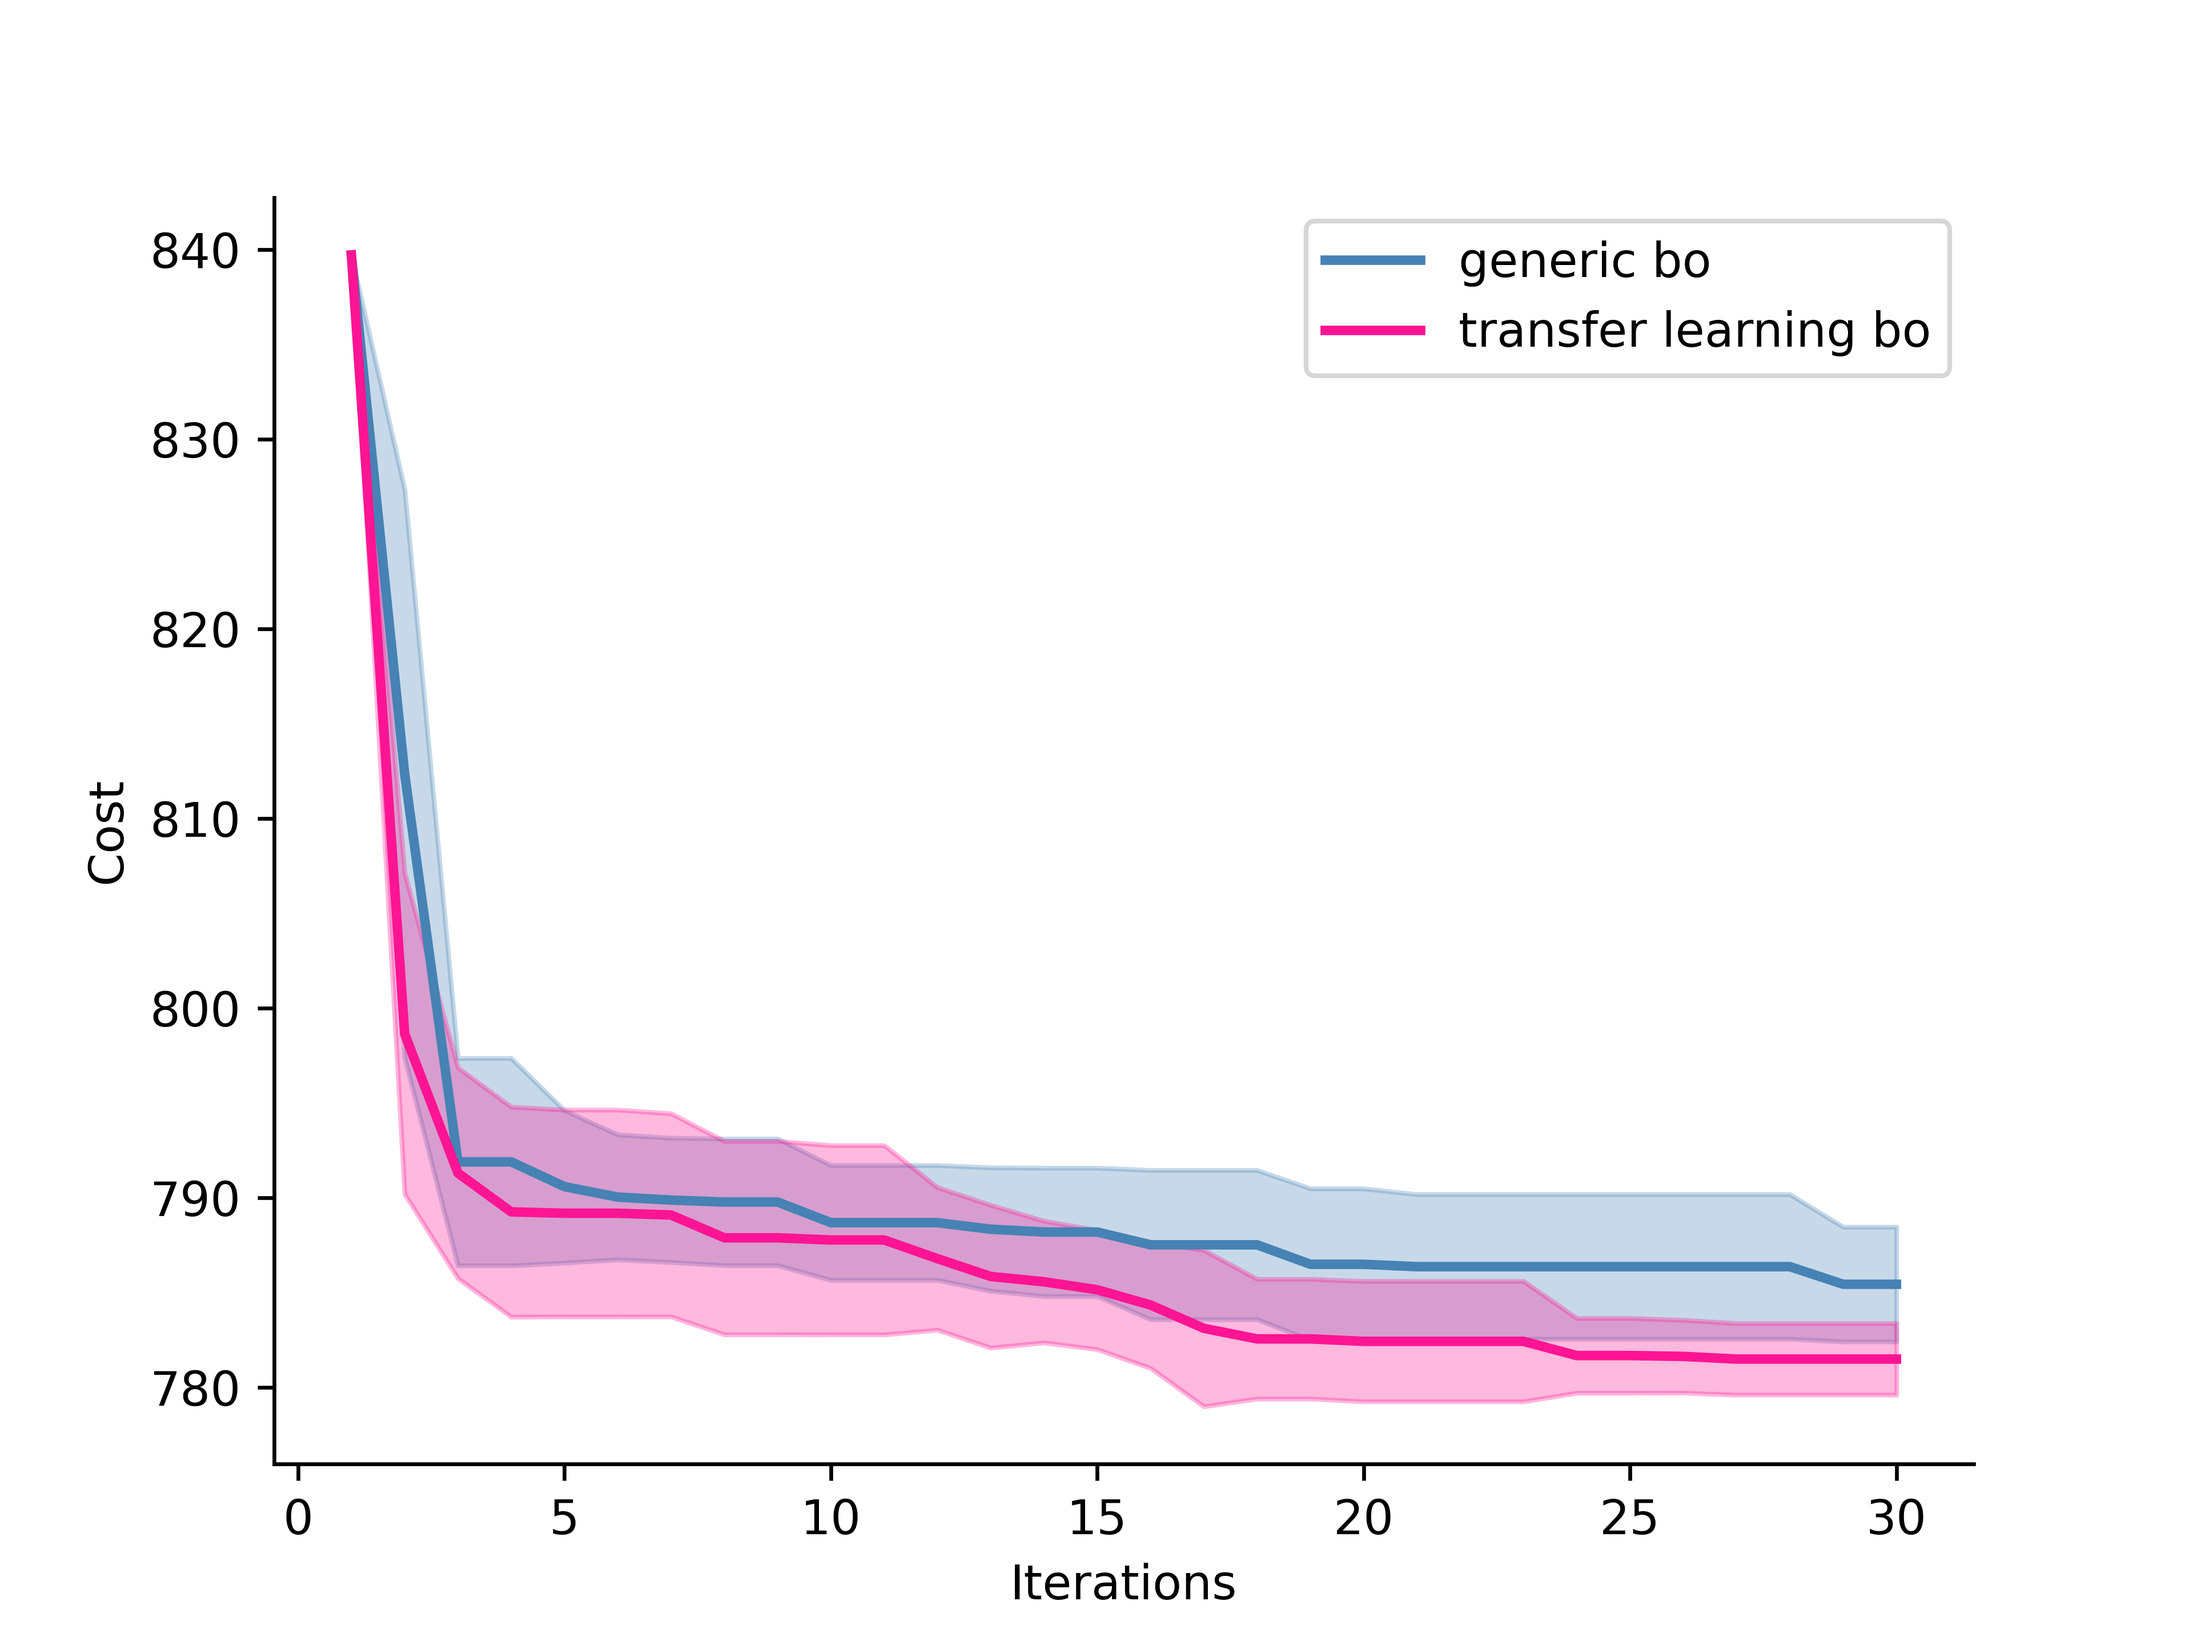
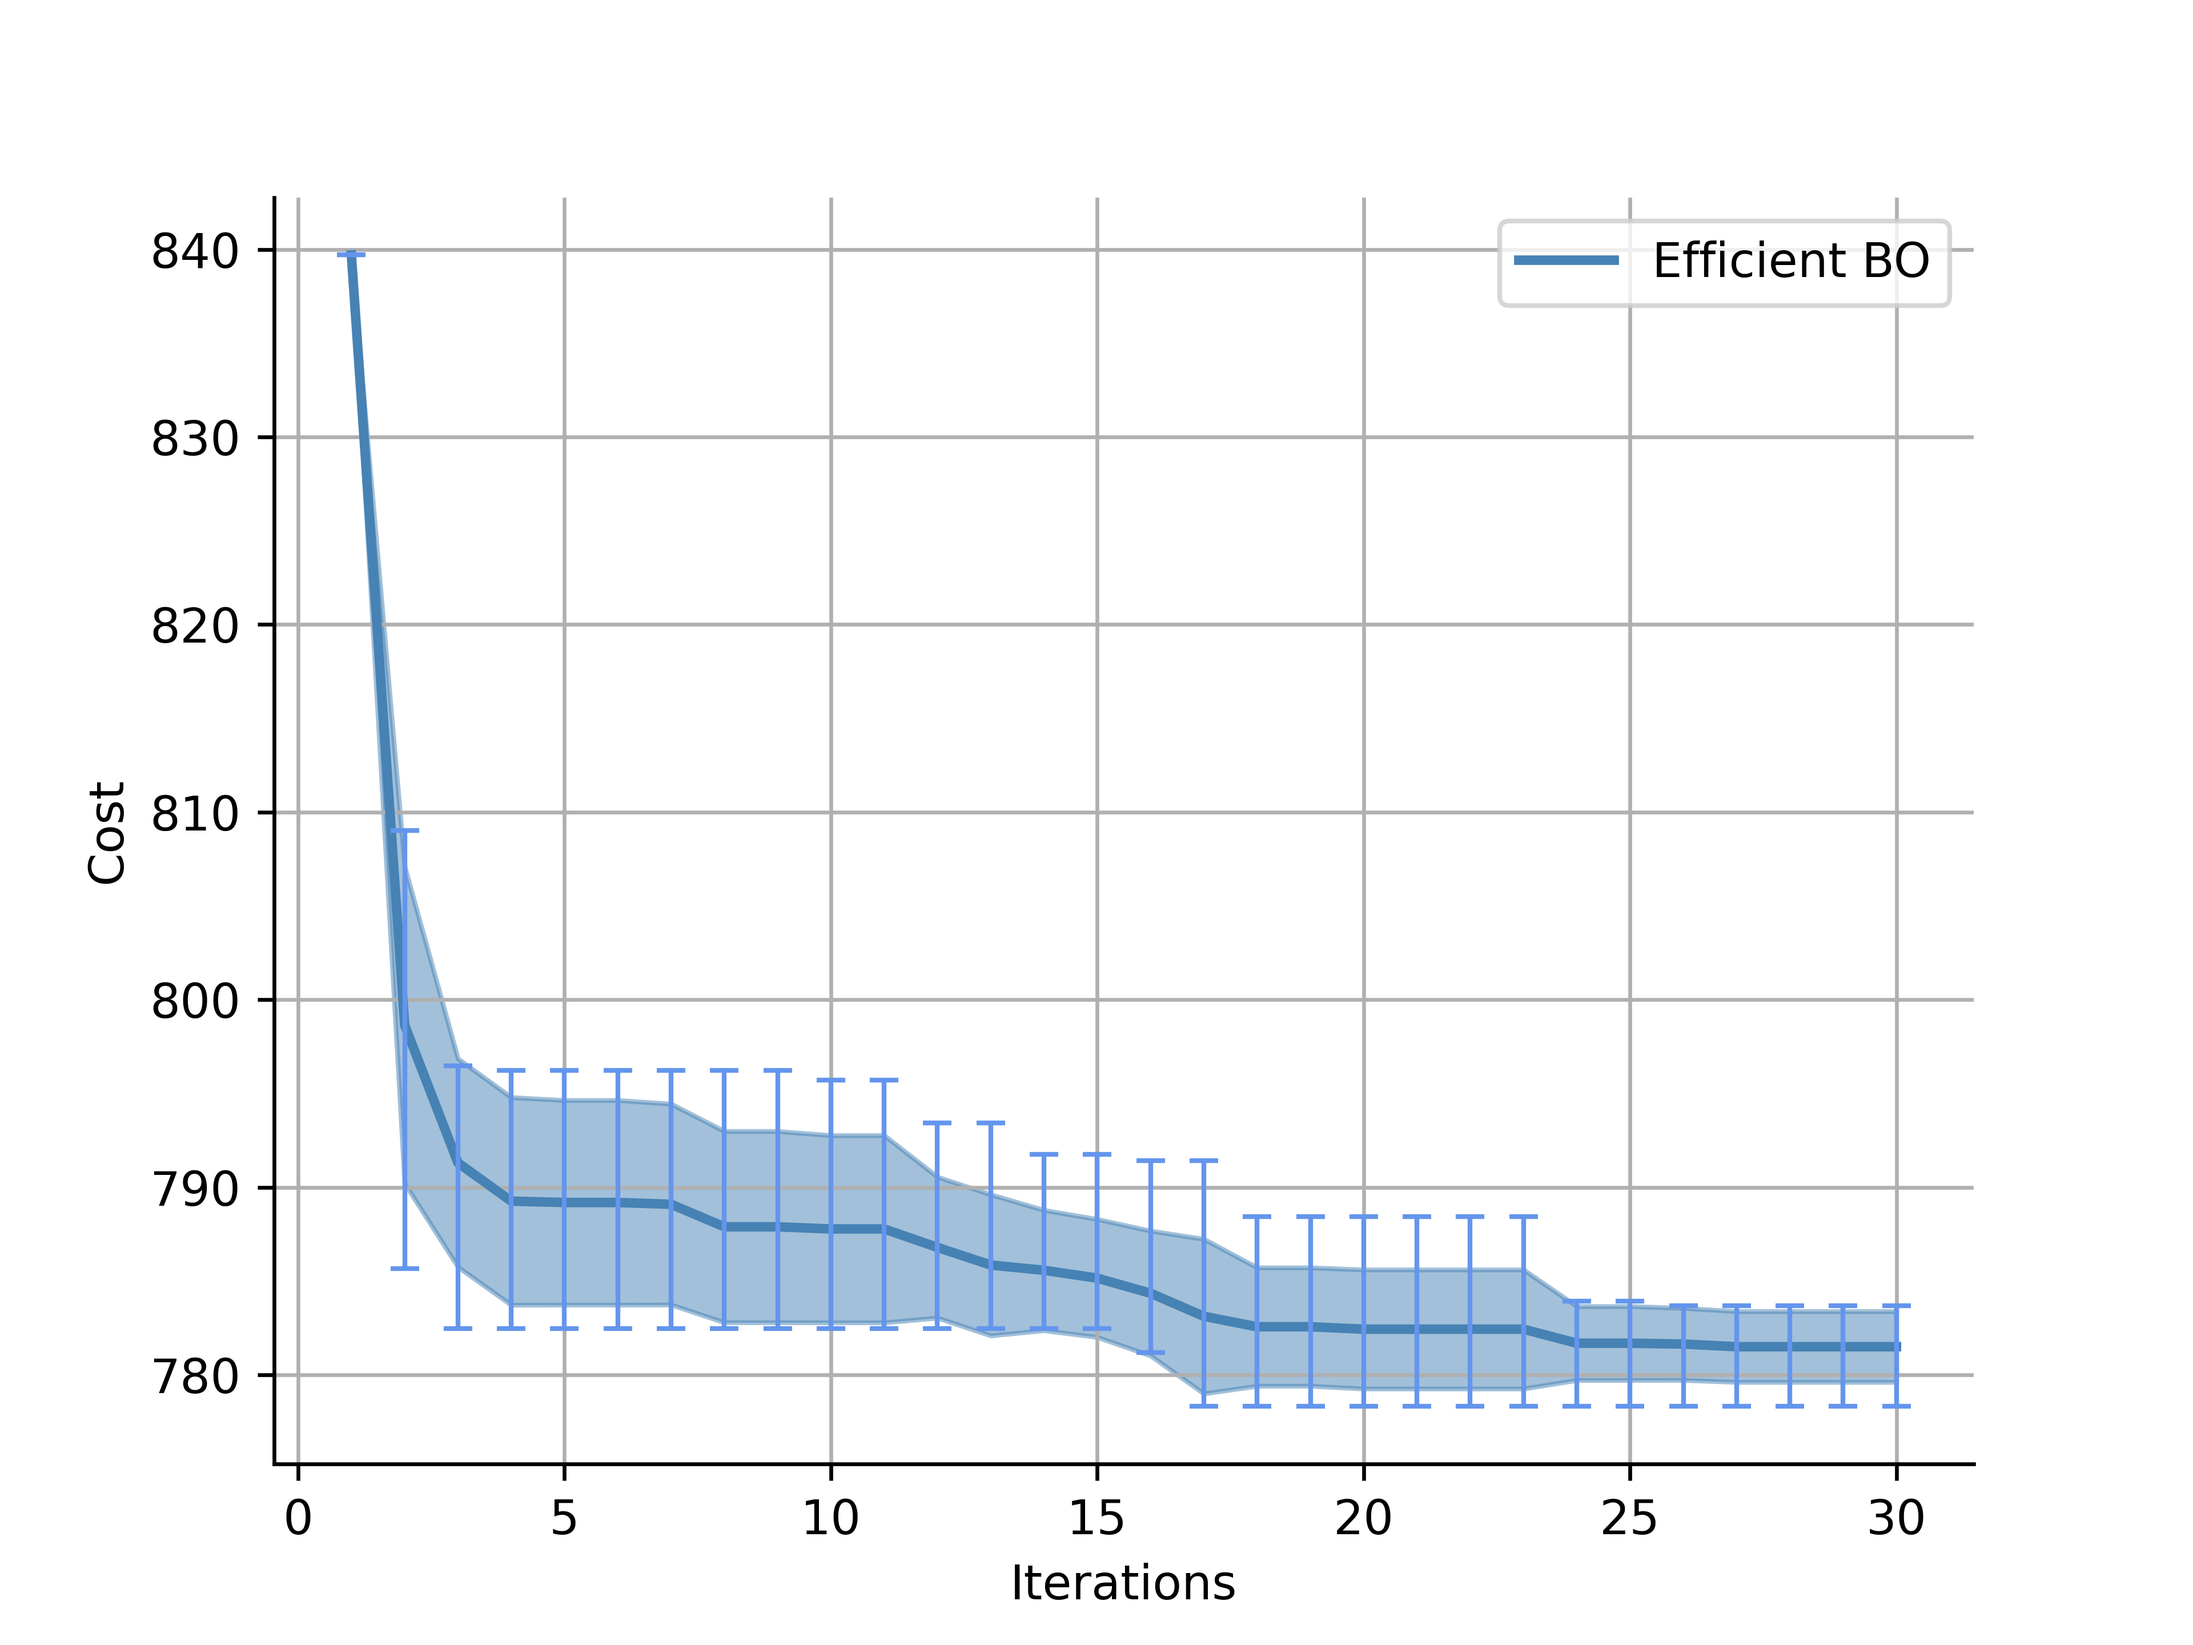
update

diff --git a/BO_LMPC/plot.py b/BO_LMPC/plot.py
@@ -55,15 +55,15 @@ for i in range(N):
                     all_best[0, :end] += current_best[:end] / N
                     bo_data[i - 1, :end] = current_best[:end]
                 elif name == 'robust_tvbo_{}.md'.format(idx):
-                    all[1, :] += lines[:end] / N
+                    all[1, :end] += lines[:end] / N
                     all_best[1, :] += current_best[:end] / N
                     tlbo_data[i - 1, :] = current_best[:end]
                 elif name == 'robust_tvbo_direct_{}.md'.format(idx):
-                    all[2, :] += lines[:end] / N
+                    all[2, :end] += lines[:end] / N
                     all_best[2, :] += current_best[:end] / N
                     direct_data[i - 1, :] = current_best[:end]
                 else:
-                    all[3, :] += lines[:end] / N
+                    all[3, :end] += lines[:end] / N
                     all_best[3, :] += current_best[:end] / N
                     unlim_data[i - 1, :] = current_best[:end]
 
@@ -75,27 +75,32 @@ bo_std = np.std(bo_data, axis=0)
 tlbo_std = np.std(tlbo_data, axis=0)
 direct_std = np.std(direct_data, axis=0)
 unlim_std = np.std(unlim_data, axis=0)
+
+tlbo_max = np.max(tlbo_data, axis=0).reshape(1, -1)
+tlbo_min = np.min(tlbo_data, axis=0).reshape(1, -1)
+tlbo_error = np.vstack((all_best[1]-tlbo_min, tlbo_max-all_best[1]))
 # plt.plot(all[0])
 # plt.plot(all[1])
 # plt.plot(all[2])
 # plt.show()
-colors = ['steelblue', 'deeppink']
+colors = ['steelblue', 'cornflowerblue', 'green', 'sandybrown']
 x = np.linspace(1, 30, 30)
-plt.plot(x, all_best[0], label='Generic BO', lw=2, color=colors[0])
+# plt.plot(x, all_best[0], label='Generic BO', lw=2, color=colors[0])
 # plt.step(x, all_best[0], label='generic bo', lw=2, color='purple')
 # plt.errorbar(np.arange(all_best.shape[1]), all_best[0], bo_std, capsize=3)
-plt.fill_between(range(1, all_best.shape[0]+1), all_best[0]-bo_std, all_best[0]+bo_std, alpha=0.3, color=colors[0])
-plt.plot(x, all_best[1], label='Efficient BO', lw=2, color=colors[1])
+# plt.fill_between(range(1, all_best.shape[1]+1), all_best[0]-bo_std, all_best[0]+bo_std, alpha=0.3, color=colors[0])
+plt.plot(x, all_best[1], label='Efficient BO', lw=2, color=colors[0])
 # plt.step(x, all_best[1], label='transfer learning bo', lw=2, color='slateblue')
-# plt.errorbar(np.arange(all_best.shape[1]), all_best[1], bo_std, capsize=3)
-plt.fill_between(range(1, all_best.shape[1]+1), all_best[1]-tlbo_std, all_best[1]+tlbo_std, alpha=0.3, color=colors[1])
+plt.errorbar(np.arange(1, all_best.shape[1]+1), all_best[1], tlbo_error, fmt='none', elinewidth=1,
+             capsize=3, ecolor=colors[1])
+plt.fill_between(range(1, all_best.shape[1]+1), all_best[1]-tlbo_std, all_best[1]+tlbo_std, alpha=0.5, color=colors[0])
 # plt.plot(all_best[2], label='lmpc')
 
-plt.plot(x, all_best[2], label='BO', lw=2, colors=colors[2])
-plt.fill_between(range(1, all_best.shape[2]+1), all_best[2]-direct_std, all_best[2]+direct_std, alpha=0.3, colors=colors[2])
+# plt.plot(x, all_best[2], label='Unnormalized Efficient BO', lw=2, color=colors[2])
+# plt.fill_between(range(1, all_best.shape[1]+1), all_best[2]-direct_std, all_best[2]+direct_std, alpha=0.3, color=colors[2])
 
-plt.plot(x, all_best[3], label='Unbounded Efficient-BO', lw=2, colors=colors[3])
-plt.fill_between(range(1, all_best.shape[3]+1), all_best[2]-unlim_std)
+# plt.plot(x, all_best[3], label='Unbounded Efficient BO', lw=2, color=colors[3])
+# plt.fill_between(range(1, all_best.shape[1]+1), all_best[3]-unlim_std, all_best[3]+unlim_std, alpha=0.3, color=colors[3])
 # plt.plot(all_best[3], label='tvbo all')
 # plt.errorbar(np.arange(all_best.shape[1]), all_best[1], bo_std, capsize=3)
 # plt.fill_between(range(all_best.shape[1]), all_best[3]-tlbo_all_std, all_best[3]+tlbo_all_std, alpha=0.3)
@@ -108,5 +113,6 @@ ax = plt.gca()
 ax.spines['right'].set_color('none')
 ax.spines['top'].set_color('none')
 plt.legend()
+plt.grid()
 plt.savefig('./figs/cost.png', dpi=600)
 plt.show()

diff --git a/BO_LMPC/plot_traj.py b/BO_LMPC/plot_traj.py
@@ -1,7 +1,6 @@
 import matplotlib.pyplot as plt
 import numpy as np
-from scipy.spatial import ConvexHull
-from mrpi.polyhedron import polyhedron, plot_polygon_list
+
 xcl_tvbo = np.load('tvbo_3_xcl.npy')
 xcl_lmpc = np.load('own_xcl.npy')
 v_tvbo = np.load('./vertices/tvbo_2/vertices_49.npy', allow_pickle=True)
@@ -14,77 +13,6 @@ plt.ylabel('x[1]')
 plt.savefig('./figs/traj.png', dpi=600)
 plt.show()
 
-plt.plot(xcl_tvbo[:, 0], xcl_tvbo[:, 1], label='transfer learning bo')
-plt.scatter(xcl_tvbo[:, 0], xcl_tvbo[:, 1], s=10)
-plt.plot(xcl_lmpc[:, 0], xcl_lmpc[:, 1], label='lmpc')
-plt.scatter(xcl_lmpc[:, 0], xcl_lmpc[:, 1], s=10)
-for i in range(xcl_tvbo.shape[0]):
-    v_tb = v_tvbo[i]
-    ax = plt.gca()
-    hull = ConvexHull(v_tb)
-    v_tb = v_tb[hull.vertices, :]
-    v_tb = v_tb + xcl_tvbo[i]  # 整体偏移
-    patch = plt.Polygon(v_tb, color='blue', linestyle='solid', fill=False)
-    ax.add_patch(patch)
 
-for i in range(xcl_lmpc.shape[0]):
-    v_lm = v_lmpc[i]
-    ax = plt.gca()
-    hull = ConvexHull(v_lm)
-    v_lm = v_lm[hull.vertices, :]
-    v_lm = v_lm + xcl_lmpc[i]  # 整体偏移
-    patch = plt.Polygon(v_lm, color='orange', linestyle='solid', fill=False)
-    ax.add_patch(patch)
-plt.legend()
-plt.xlabel('x[0]')
-plt.ylabel('x[1]')
-plt.savefig('./figs/x_tube.png', dpi=600)
-plt.show()
-
-ucl_tvbo = np.load('tvbo_3_ucl_true.npy')
-uv_tvbo = np.load('./vertices/tvbo_3/Kxs_49.npy', allow_pickle=True)
-ucl_lmpc = np.load('own_ucl.npy')
-uv_lm = np.load('./vertices/own/Kxs_49.npy', allow_pickle=True)
-fig, ax = plt.subplots(1, 2, figsize=[13, 5])
-tb = []
-x_tb = np.linspace(1, ucl_tvbo.shape[0], ucl_tvbo.shape[0])
-for i in range(ucl_tvbo.shape[0]):
-    tb.append(np.max(uv_tvbo[i]))
-ax[0].errorbar(x_tb, ucl_tvbo, tb, fmt='o-', ecolor='blue', elinewidth=2, capsize=4, label='transfer learning bo')
-ax[0].set_title('transfer learning bo')
-ax[0].set_xlabel('Iteration')
-ax[0].set_ylabel('u')
-lm = []
-x_lm = np.linspace(1, ucl_lmpc.shape[0], ucl_lmpc.shape[0])
-for i in range(ucl_lmpc.shape[0]):
-    lm.append(np.max(uv_lm[i]))
-ax[1].errorbar(x_lm, ucl_lmpc, lm, fmt='o-', ecolor='r', elinewidth=2, capsize=4, label='lmpc')
-ax[1].set_title('lmpc')
-ax[1].set_xlabel('Iteration')
-ax[1].set_ylabel('u')
-# plt.plot(ucl_tvbo, label='ucl tvbo')
-# # plt.scatter(ucl_tvbo, s=10)
-# plt.legend()
-
-plt.savefig('./figs/u_tube.png', dpi=600)
-plt.show()
-
-from FTOCP_casadi import FTOCP
-# from FTOCP import FTOCP
-from LMPC import LMPC
-# points = self.vertices
-#         ax = plt.gca()
-# hull = ConvexHull(points)
-#             points = points[hull.vertices, :]
-#             patch = plt.Polygon(points, color=color, linestyle=linestyle,
-#                                 fill=fill, linewidth=linewidth)
-#             ax.add_patch(patch)
-#             ax.autoscale_view()
-#             ax.relim()
-#             ax.grid(color=(0, 0, 0), linestyle='--', linewidth=0.3)
-#             ax.set_title(title)
-#             plt.xlabel('c\,(m)', fontsize='19')
-#             plt.ylabel('\dot{c}\,({m}/{s})', fontsize='19')
-#             plt.show()
 
 

diff --git a/BO_LMPC/plot_tube.py b/BO_LMPC/plot_tube.py
@@ -1,0 +1,65 @@
+import matplotlib.pyplot as plt
+import numpy as np
+from scipy.spatial import ConvexHull
+from mrpi.polyhedron import polyhedron, plot_polygon_list
+
+
+xcl_tvbo = np.load('tvbo_3_xcl.npy')
+xcl_lmpc = np.load('own_xcl.npy')
+v_tvbo = np.load('./vertices/tvbo_2/vertices_49.npy', allow_pickle=True)
+v_lmpc = np.load('./vertices/own/vertices_49.npy', allow_pickle=True)
+
+plt.plot(xcl_tvbo[:, 0], xcl_tvbo[:, 1], label='transfer learning bo')
+plt.scatter(xcl_tvbo[:, 0], xcl_tvbo[:, 1], s=10)
+plt.plot(xcl_lmpc[:, 0], xcl_lmpc[:, 1], label='lmpc')
+plt.scatter(xcl_lmpc[:, 0], xcl_lmpc[:, 1], s=10)
+for i in range(xcl_tvbo.shape[0]):
+    v_tb = v_tvbo[i]
+    ax = plt.gca()
+    hull = ConvexHull(v_tb)
+    v_tb = v_tb[hull.vertices, :]
+    v_tb = v_tb + xcl_tvbo[i]  # 整体偏移
+    patch = plt.Polygon(v_tb, color='blue', linestyle='solid', fill=False)
+    ax.add_patch(patch)
+
+for i in range(xcl_lmpc.shape[0]):
+    v_lm = v_lmpc[i]
+    ax = plt.gca()
+    hull = ConvexHull(v_lm)
+    v_lm = v_lm[hull.vertices, :]
+    v_lm = v_lm + xcl_lmpc[i]  # 整体偏移
+    patch = plt.Polygon(v_lm, color='orange', linestyle='solid', fill=False)
+    ax.add_patch(patch)
+plt.legend()
+plt.xlabel('x[0]')
+plt.ylabel('x[1]')
+plt.savefig('./figs/x_tube.png', dpi=600)
+plt.show()
+
+ucl_tvbo = np.load('tvbo_3_ucl_true.npy')
+uv_tvbo = np.load('./vertices/tvbo_3/Kxs_49.npy', allow_pickle=True)
+ucl_lmpc = np.load('own_ucl.npy')
+uv_lm = np.load('./vertices/own/Kxs_49.npy', allow_pickle=True)
+fig, ax = plt.subplots(1, 2, figsize=[13, 5])
+tb = []
+x_tb = np.linspace(1, ucl_tvbo.shape[0], ucl_tvbo.shape[0])
+for i in range(ucl_tvbo.shape[0]):
+    tb.append(np.max(uv_tvbo[i]))
+ax[0].errorbar(x_tb, ucl_tvbo, tb, fmt='o-', ecolor='blue', elinewidth=2, capsize=4, label='transfer learning bo')
+ax[0].set_title('transfer learning bo')
+ax[0].set_xlabel('Iteration')
+ax[0].set_ylabel('u')
+lm = []
+x_lm = np.linspace(1, ucl_lmpc.shape[0], ucl_lmpc.shape[0])
+for i in range(ucl_lmpc.shape[0]):
+    lm.append(np.max(uv_lm[i]))
+ax[1].errorbar(x_lm, ucl_lmpc, lm, fmt='o-', ecolor='r', elinewidth=2, capsize=4, label='lmpc')
+ax[1].set_title('lmpc')
+ax[1].set_xlabel('Iteration')
+ax[1].set_ylabel('u')
+# plt.plot(ucl_tvbo, label='ucl tvbo')
+# # plt.scatter(ucl_tvbo, s=10)
+# plt.legend()
+
+plt.savefig('./figs/u_tube.png', dpi=600)
+plt.show()

diff --git a/BO_LMPC/plot_ys.py b/BO_LMPC/plot_ys.py
@@ -3,9 +3,12 @@ import numpy as np
 from scipy.spatial import ConvexHull
 from mrpi.polyhedron import polyhedron, plot_polygon_list
 
-for i in range(30):
+ys = np.array([839.7065714])
+xs = np.ones(1) * 1
+plt.scatter(xs, ys, marker='*', s=20, c='black', label='current point')
+for i in range(29):
     ys = np.load('./ys/tvbo/y_{}.npy'.format(i))
-    xs = np.ones(10) * (i+1)
+    xs = np.ones(10) * (i+2)
     plt.scatter(xs, ys, marker='*', s=20, c='black')
 
 with open('./new_results/robust_tvbo_3.md') as f:
@@ -20,5 +23,9 @@ with open('./new_results/robust_tvbo_3.md') as f:
             vmin = lines[j]
         else:
             current_best[j] = vmin
-    plt.plot(current_best[:30], color='red')
+    plt.plot(np.linspace(1, 30, 30), current_best[:30], color='red', label='current best performance')
+plt.xlabel('Iterations')
+plt.grid()
+plt.legend()
+plt.savefig('./figs/data_points.png', dpi=600, bbox_inches='tight', pad_inches=0)
 plt.show()
